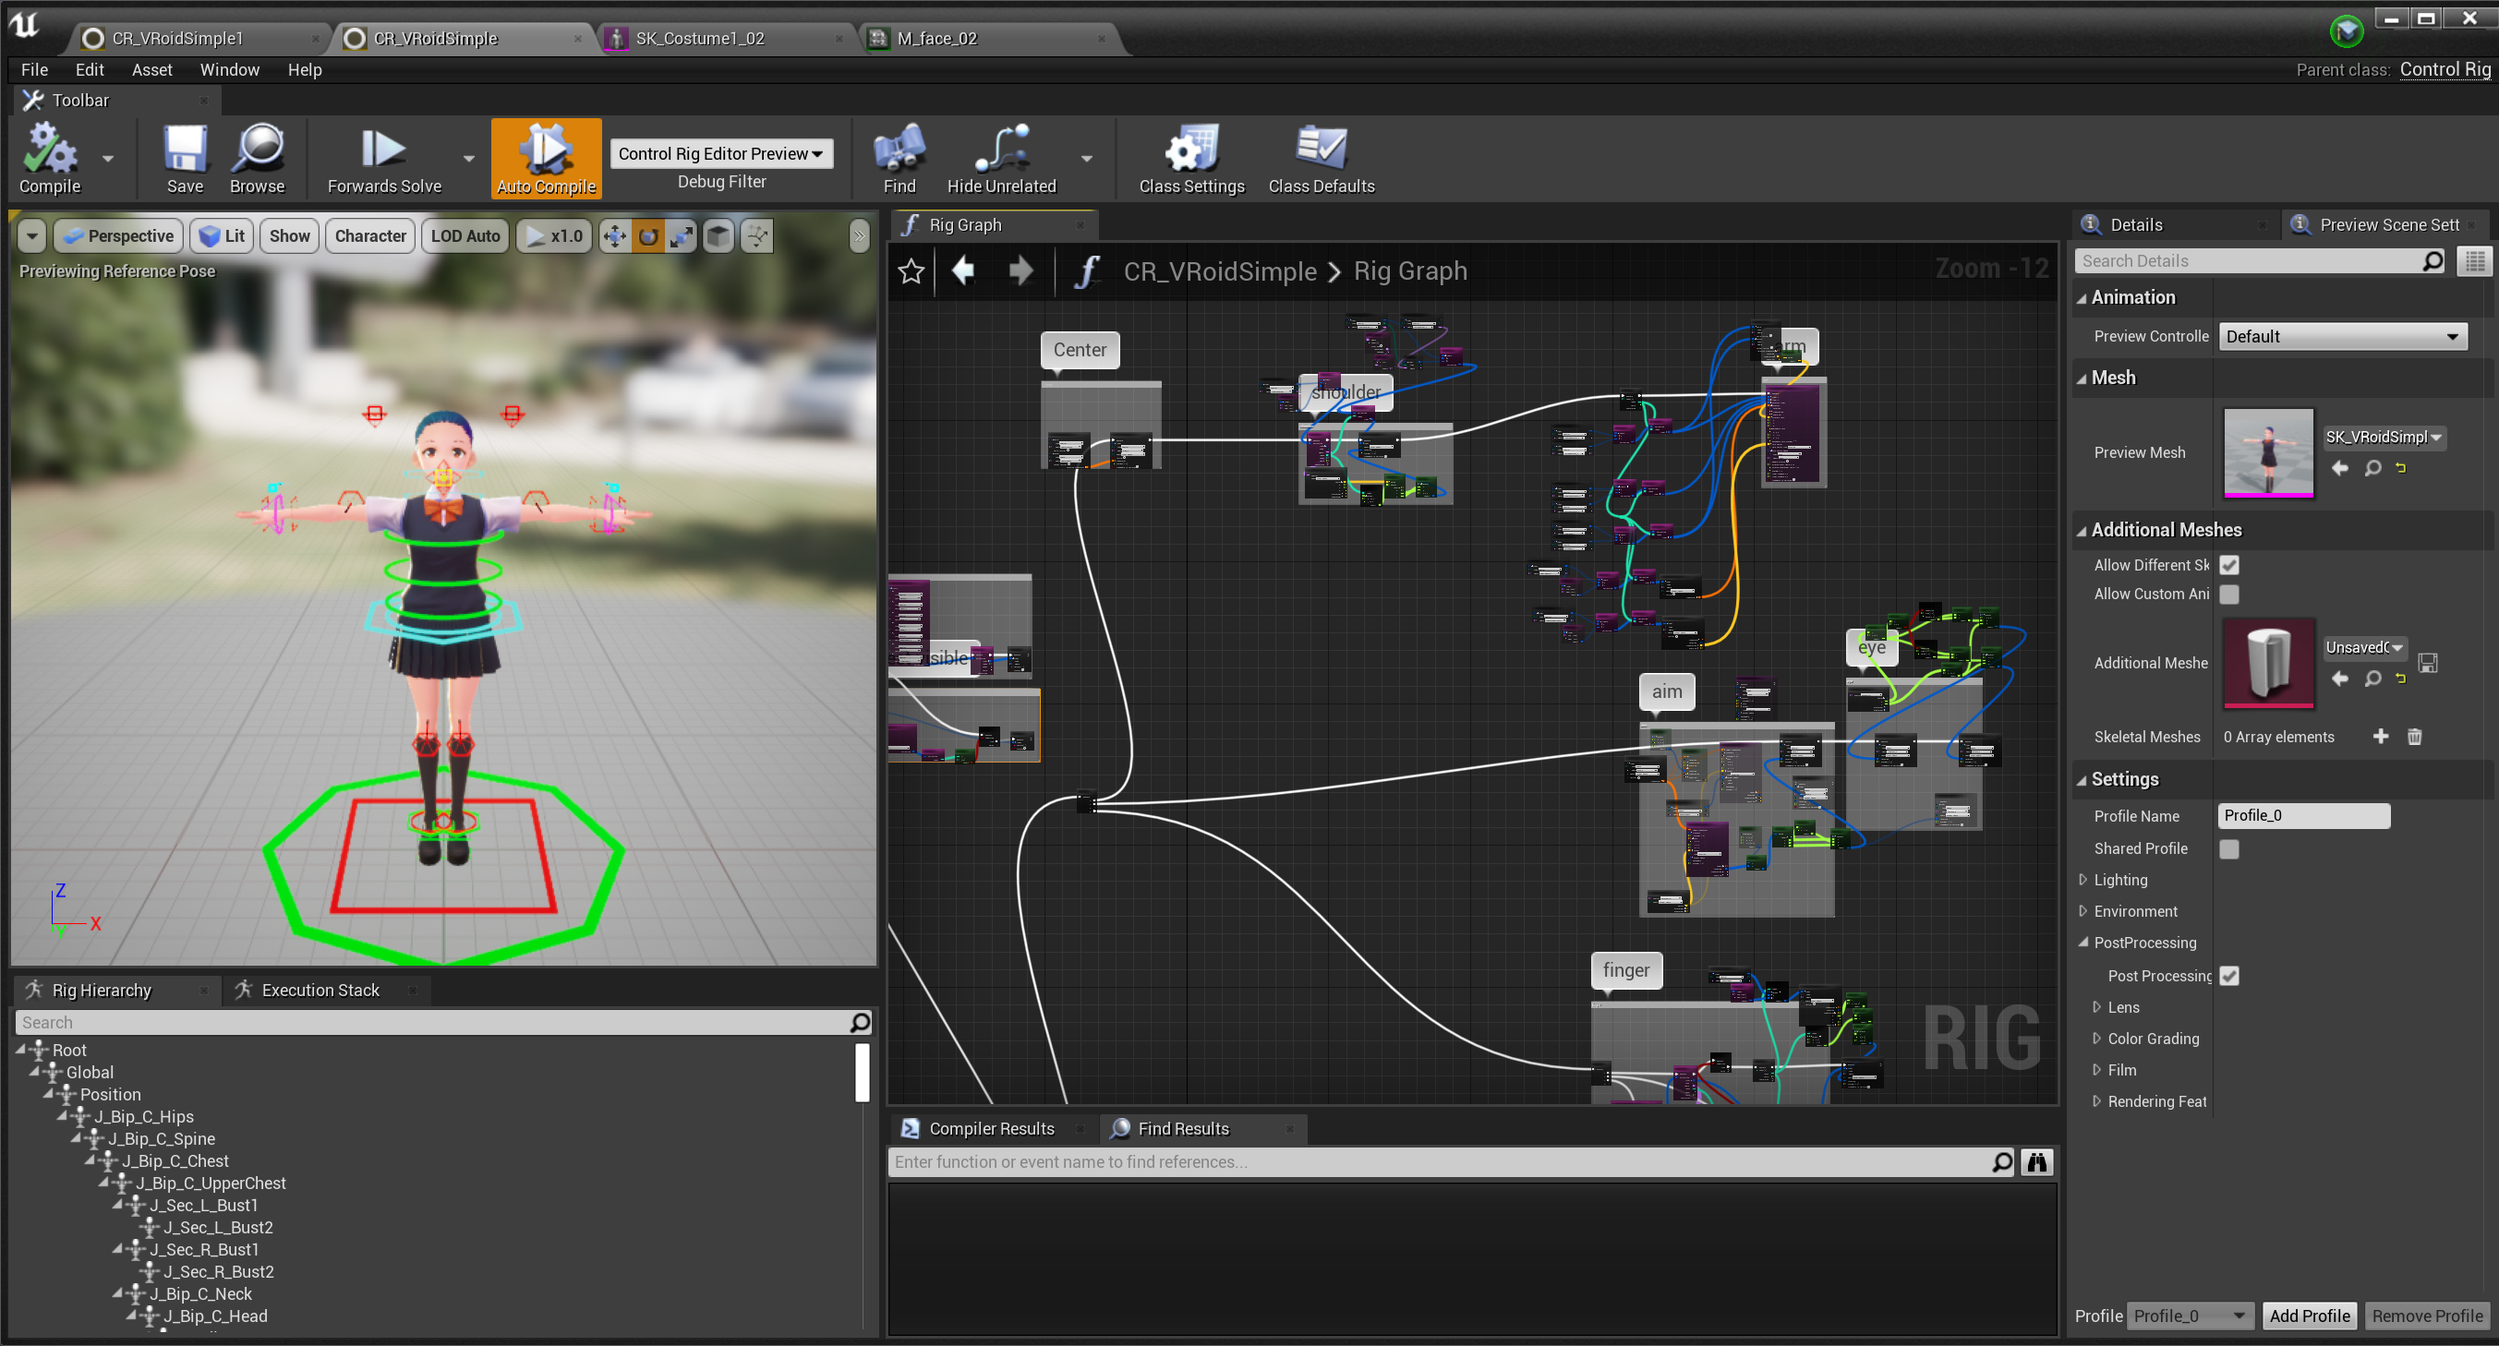
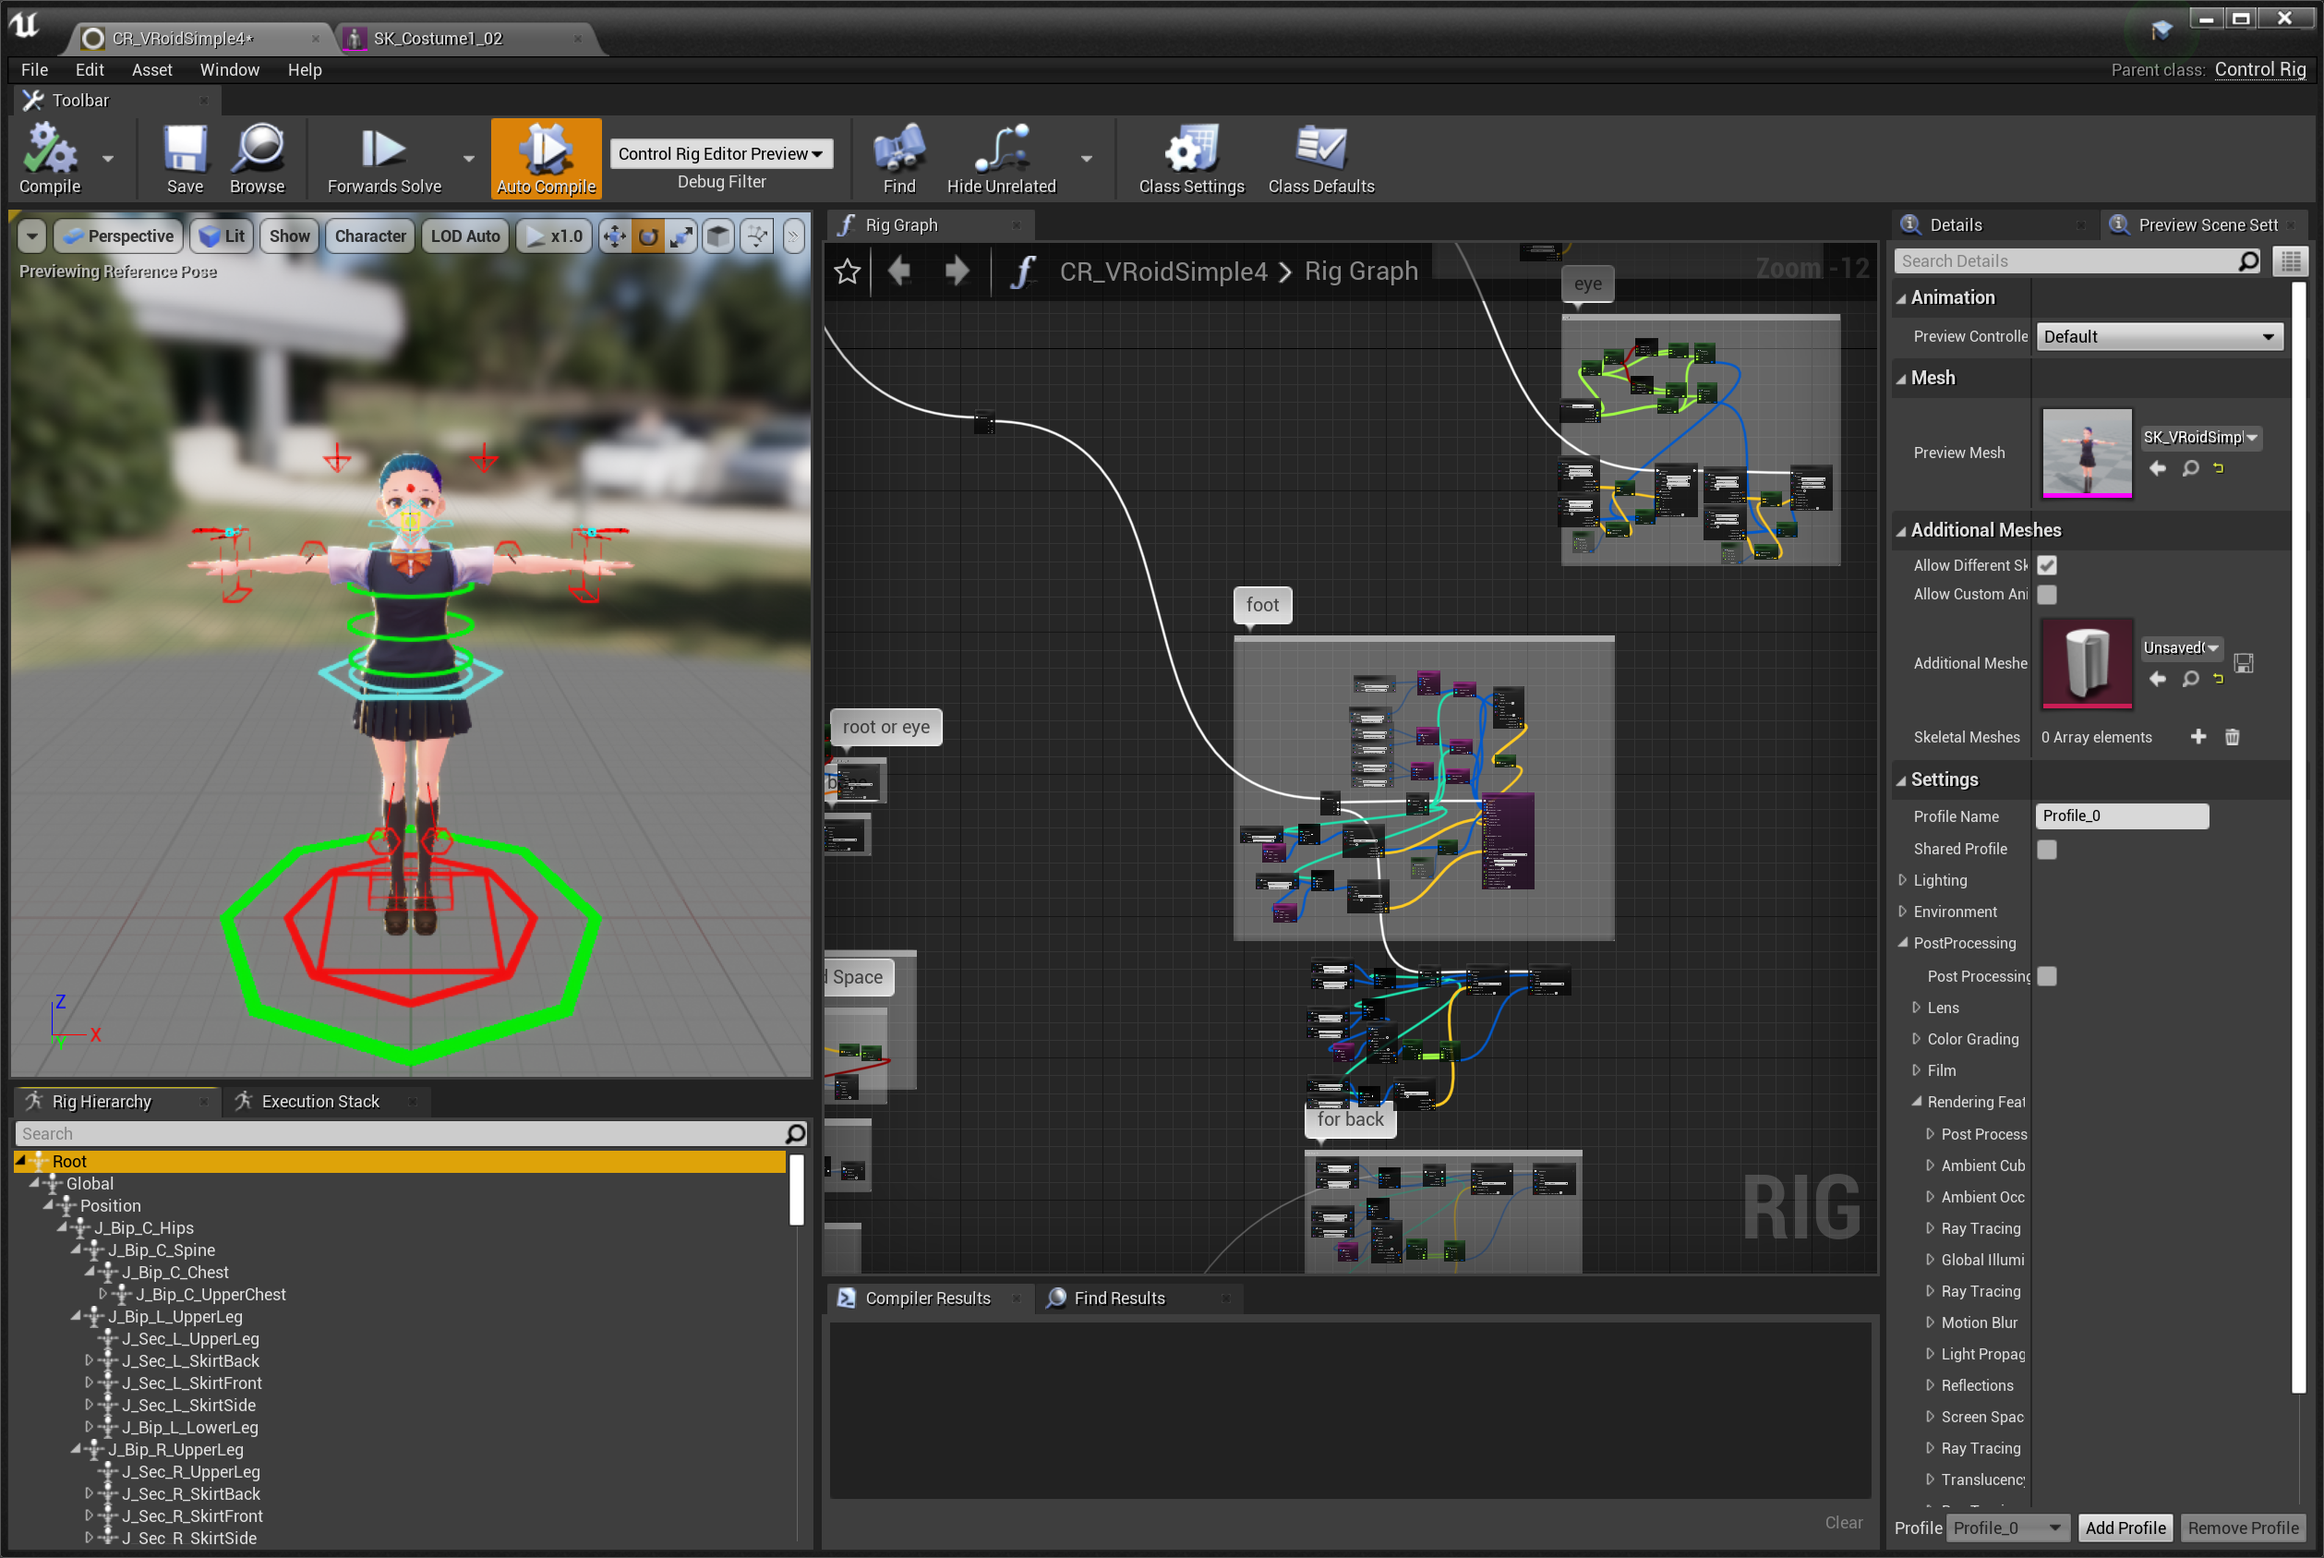
ControlRig 複製手順をImportへ変更

diff --git a/VRM4U/06_controlrig.md b/VRM4U/06_controlrig.md
@@ -67,18 +67,22 @@ UE4.26以降で動きます。
 `CR_VRoidSimple`を複製(duplicate)して開きます。
  
 **ControlRig編集画面より**
- - プレビューモデルを対象モデルにセット
- - 階層ウインドウを右クリック、Refreshより、対象モデルをセット
 
 |複製したControlRigを開いて、、|
 |-|
 |[![](./assets/images/small/06a_copy0.png)](../assets/images/06a_copy0.png)|
 
 
-|PreviewMesh と 階層右クリック->Refresh->SelectMesh の2箇所にモデルをセット|
+|Rootを選択、Deleteキーを押す（一時的にモデルが崩れます）|
 |-|
 |[![](./assets/images/small/06a_copy1.png)](../assets/images/06a_copy1.png)|
 
+|モデルを2箇所にセット。「PreviewMesh」 と 「階層右クリック->Import->SelectMesh」|
+|-|
+|[![](./assets/images/small/06a_copy3.png)](../assets/images/06a_copy3.png)|
+
+モデルは「Import」メニューで更新してください。「Refresh」で更新するとMorphTarget用のアニメーションカーブが変更されません。
+{: .notice--info}
 
 **テンプレート複製UIより**
  - 上記設定を行ったControlRigをセット
